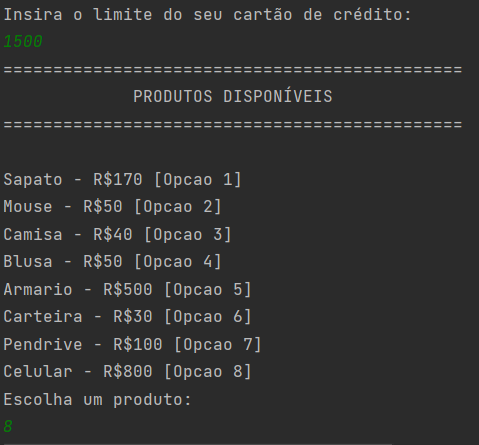
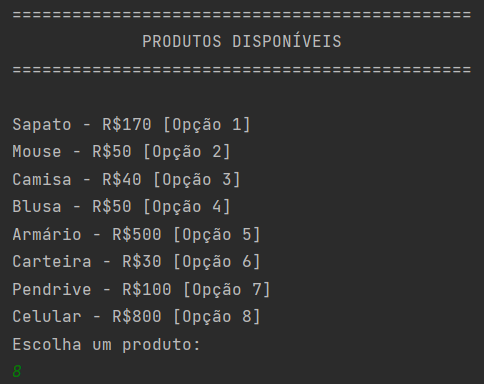
Correções
- Correções gramaticais no output
- Atualização da imagem capa

Changed region(s): [[0.0, 0.375, 0.5553, 1.0], [0.0, 0.0, 0.9645, 0.3438]]

diff --git a/src/br/com/aplicativodecompras/model/Produtos.java b/src/br/com/aplicativodecompras/model/Produtos.java
@@ -9,7 +9,7 @@ public interface Produtos {
     public ArrayList<String> produtos = new ArrayList<>(Arrays.asList(
             "Sapato", "Mouse",
             "Camisa", "Blusa",
-            "Armario", "Carteira",
+            "Armário", "Carteira",
             "Pendrive", "Celular"
     ));
     public ArrayList<Integer> precos = new ArrayList<>(Arrays.asList(

diff --git a/src/br/com/aplicativodecompras/controller/Loja.java b/src/br/com/aplicativodecompras/controller/Loja.java
@@ -88,7 +88,7 @@ public class Loja extends CartaoDeCredito implements Produtos {
         );
 
         for (var x = 0; x < produtos.size(); x++){
-            System.out.printf("%s - R$%d [Opcao %d]\n", produtos.get(x), precos.get(x), x+1);
+            System.out.printf("%s - R$%d [Opção %d]\n", produtos.get(x), precos.get(x), x+1);
         }
     }
 
